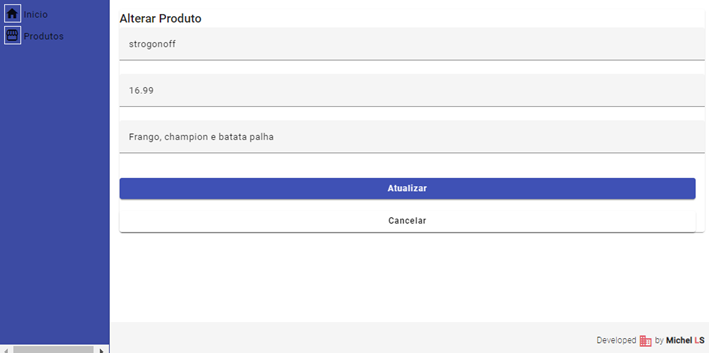
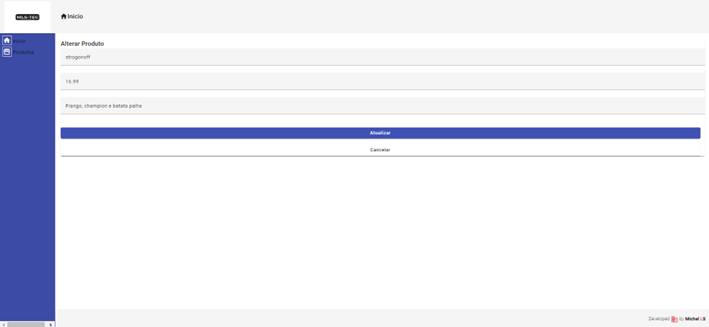
update - alters imgs

diff --git a/index.html b/index.html
@@ -105,7 +105,7 @@
                 <h2 class="title-works">Projects</h2>
                 <div class="grid-container-works">
                     <div class="grid-items-div-projects">
-                        <a href="https://github.com/MichelLimaSoares/productRegistrationCrud"><img class="grid-items-works" src="./img/home-crud.png" alt="Crud-products"></a>
+                        <a href="https://github.com/MichelLimaSoares/productRegistrationCrud"><img class="grid-items-works" src="./img/alterar-produto.png" alt="Crud-products"></a>
                         <h3>Angular - Product Registration - Crud</h3>
                     </div>
                     <div class="grid-items-div-projects">
